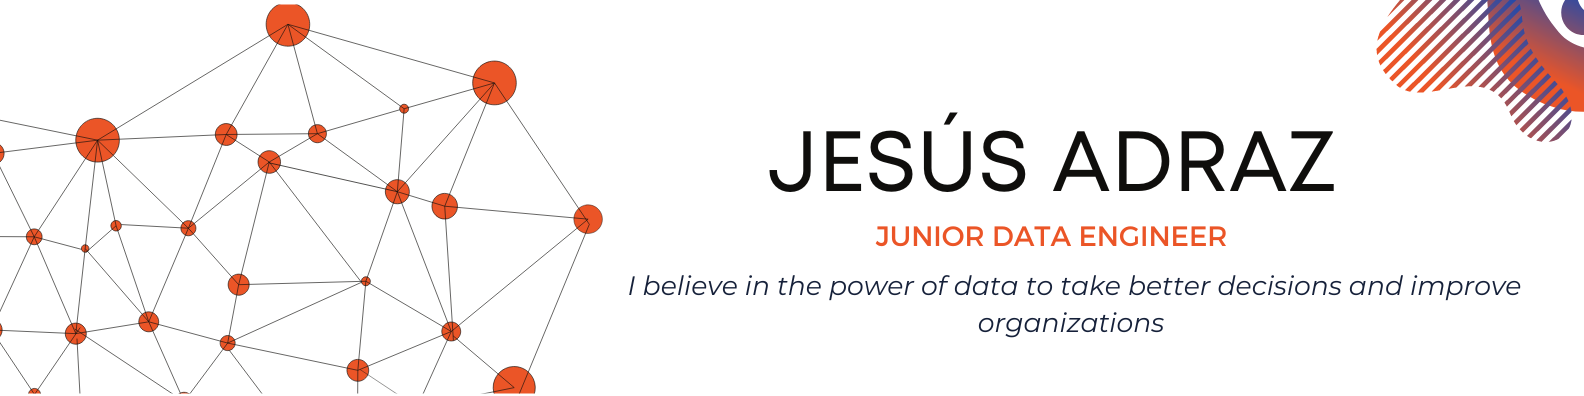
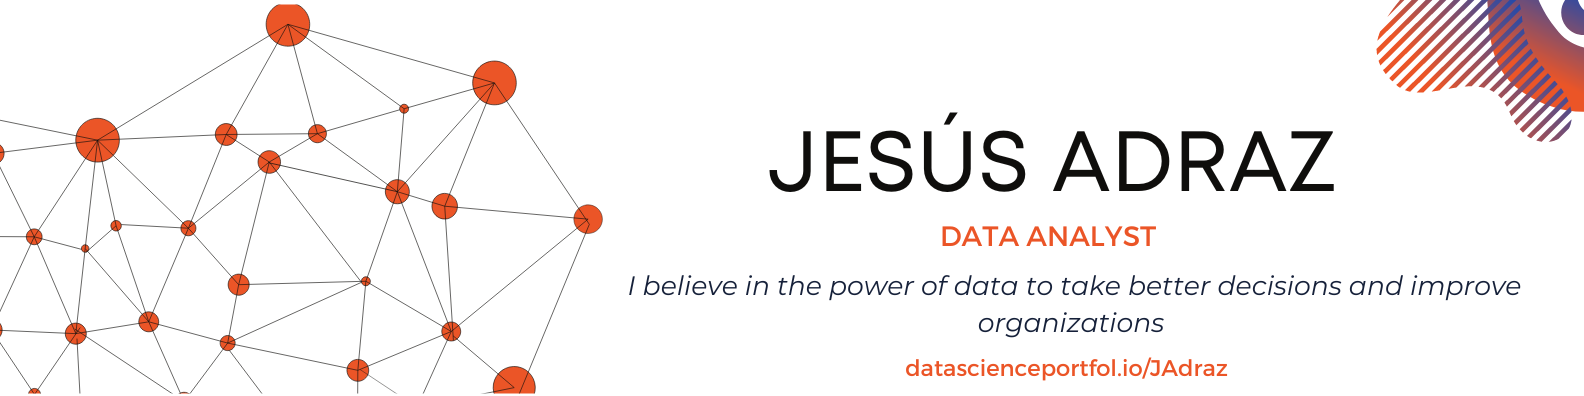
updating readme file w cover and role

Changed region(s): [[0.5568, 0.5455, 0.7734, 0.6364], [0.5568, 0.9091, 0.7734, 0.9697]]

diff --git a/README.md b/README.md
@@ -2,7 +2,7 @@
 
 ![myimagen](/res/cover.png)
 
-I am a Junior Data Analyst passionate about analyzing data, creating dashboards and data driven cultures.
+I am Data Analyst passionate about analyzing data, creating dashboards and data driven cultures.
 
 I graduated from psychology and transitioned to tech field in 2020 during COVID-19 pandemic. I started implemeting Odoo ERP to several companies as a Project Manager and then I decided to become a full time Data Analyst. It was the best decision I have ever made because I found my real passion in this area and I am pursuing my dream to help companies make better decisions through data.
 
